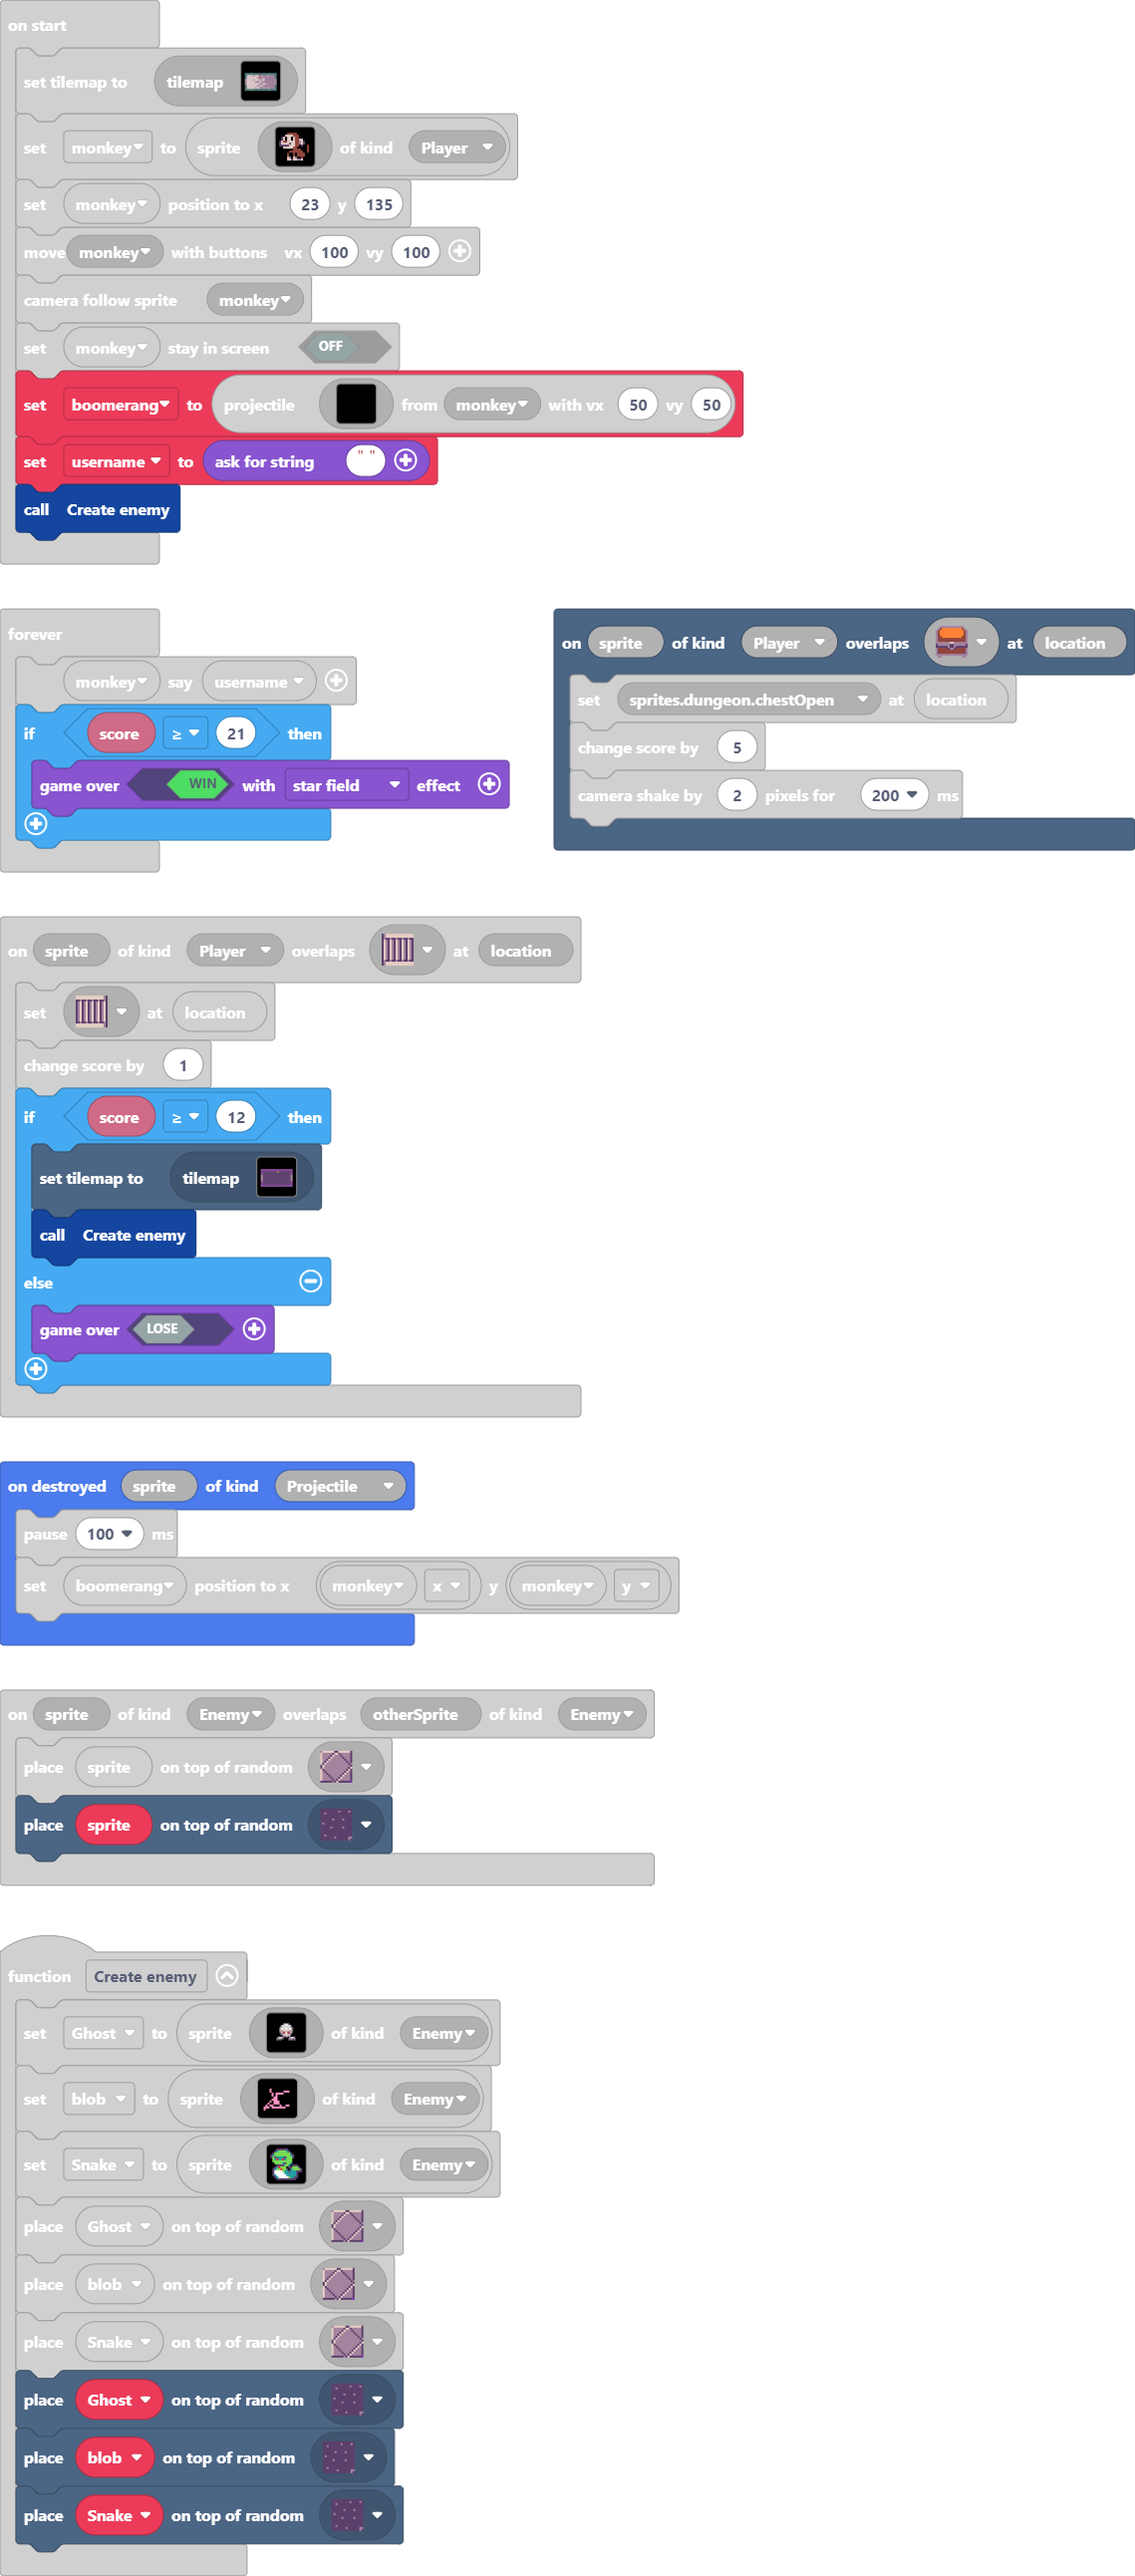
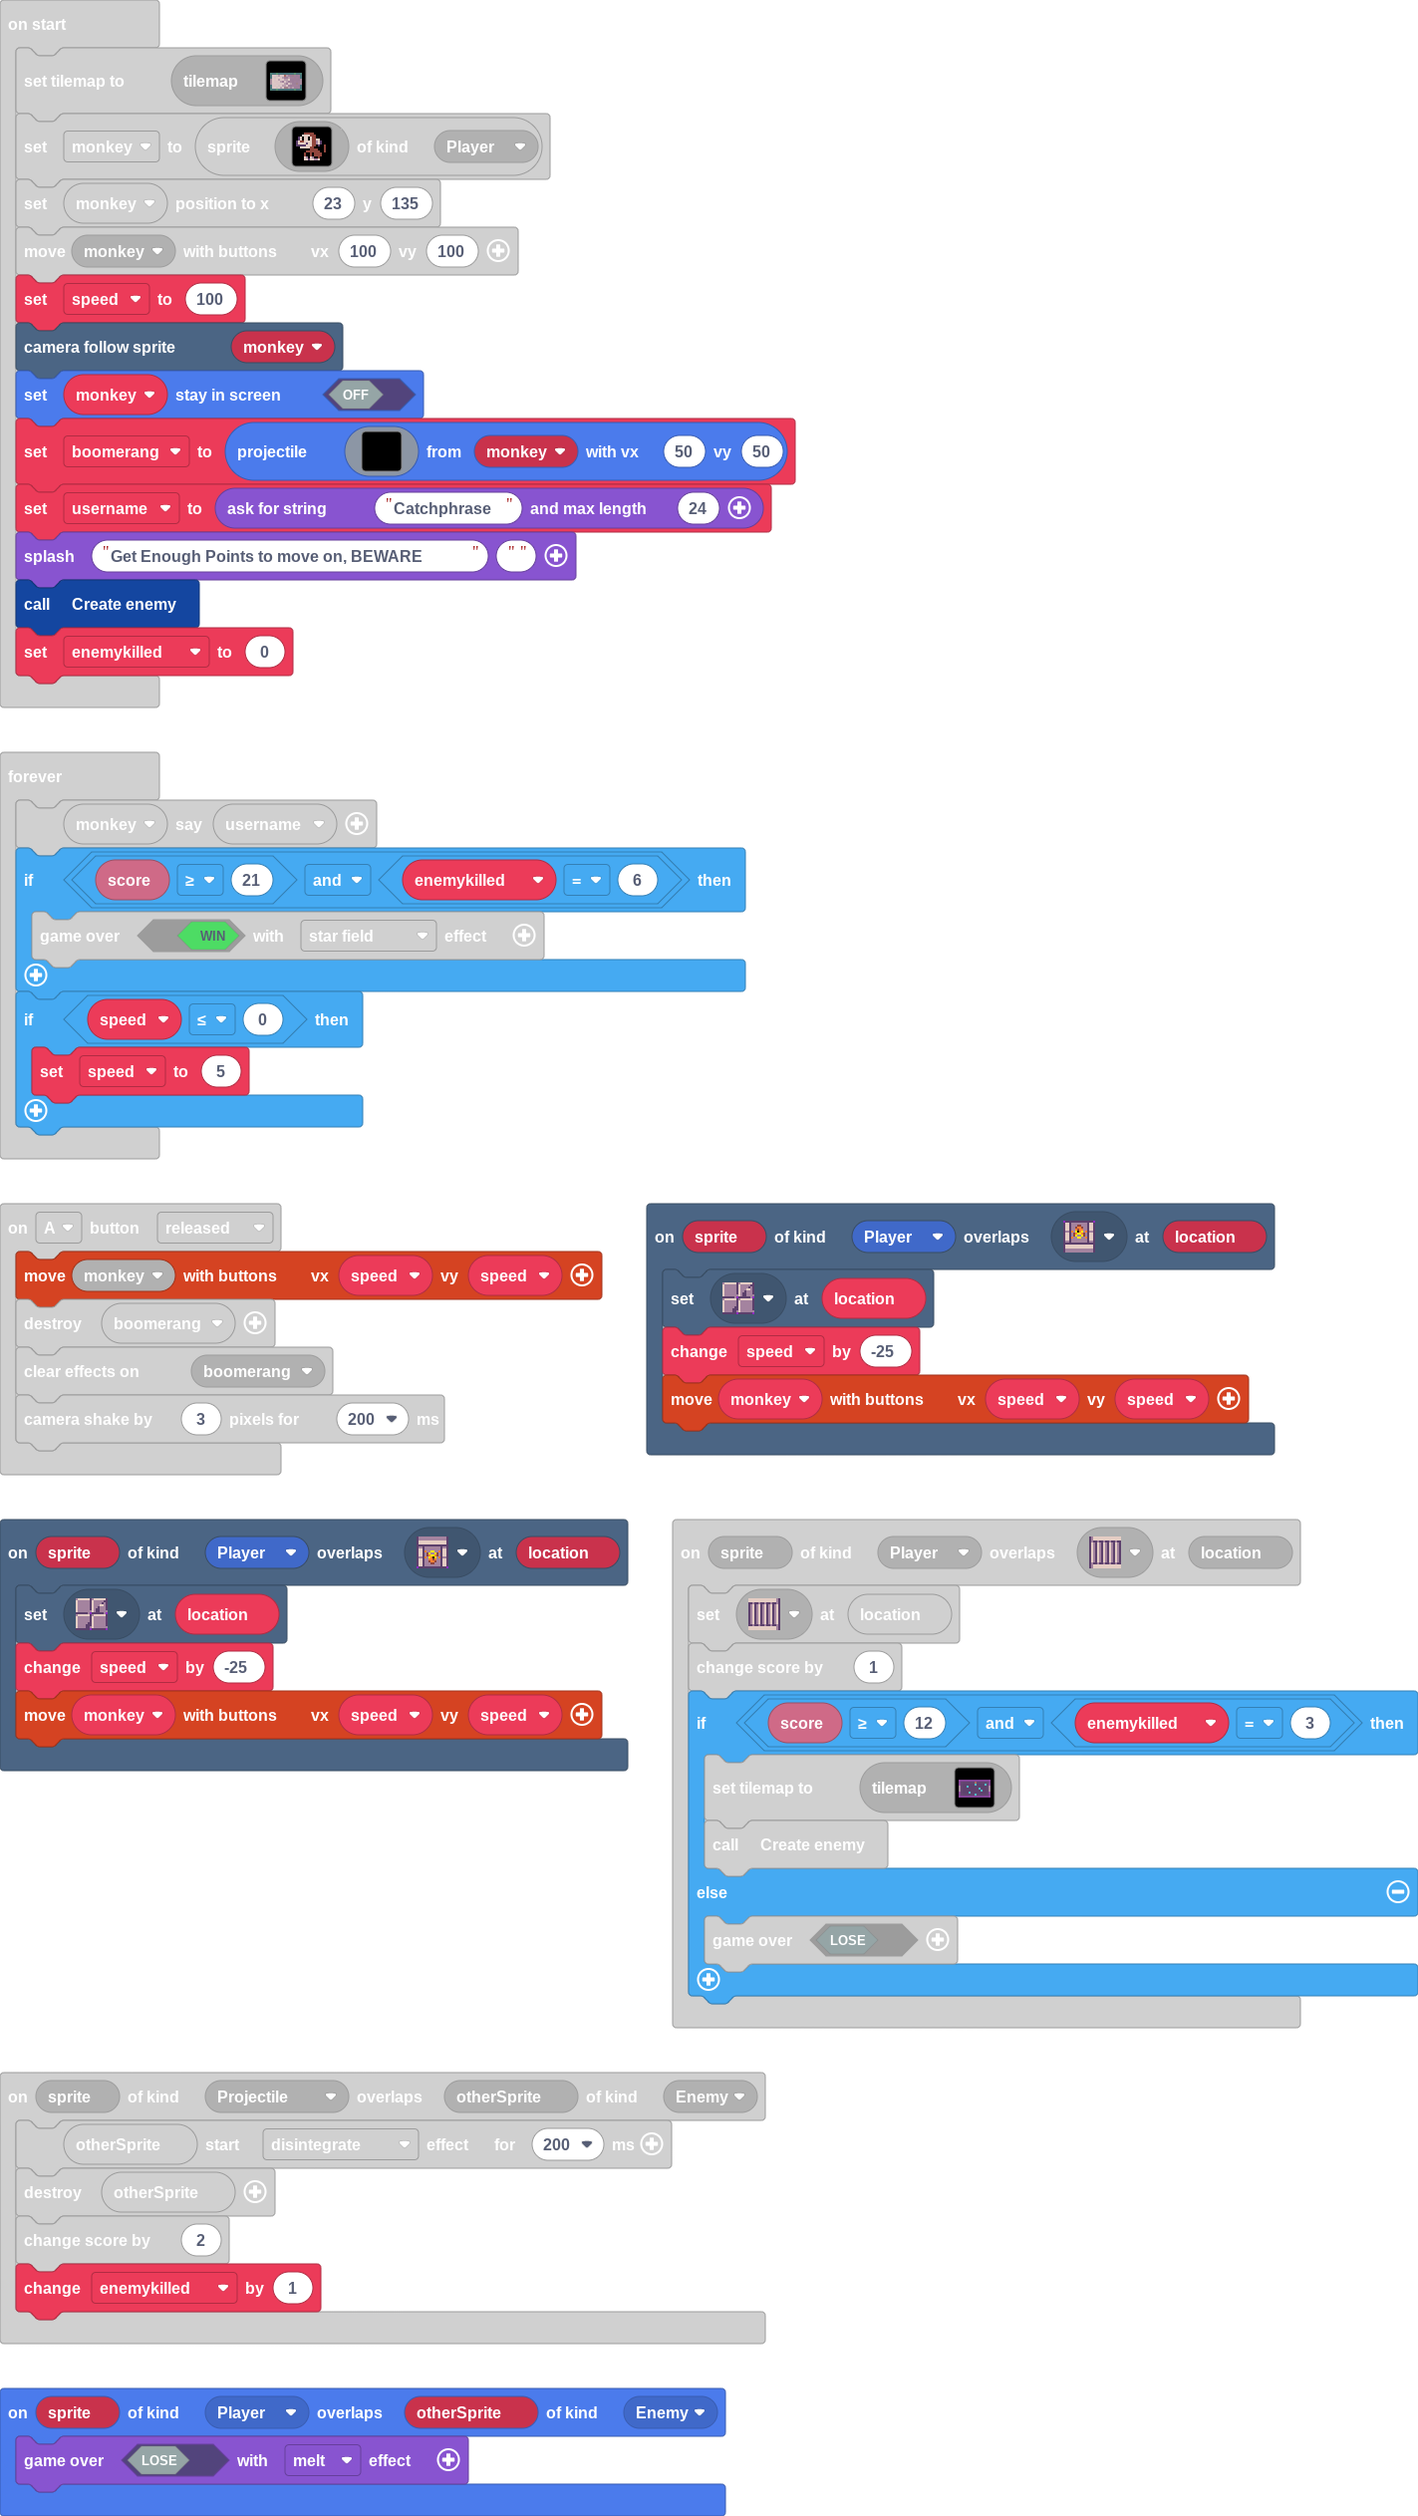
Update pxt.json, main.blocks, main.ts, tilemap.g.jres, tilemap.g.ts

diff --git a/tilemap.g.ts b/tilemap.g.ts
@@ -24,25 +24,6 @@ namespace myTiles {
 . . . . . . . . . . . . . . . . 
 . . . . . . . . . . . . . . . . 
 `, [myTiles.transparency16,sprites.dungeon.darkGroundNorthWest0,sprites.dungeon.darkGroundNorthEast0,sprites.dungeon.darkGroundSouthWest0,sprites.dungeon.darkGroundSouthEast0,sprites.dungeon.darkGroundWest,sprites.dungeon.darkGroundEast,sprites.dungeon.darkGroundNorth,sprites.dungeon.darkGroundSouth,sprites.dungeon.darkGroundCenter,sprites.dungeon.purpleOuterNorthEast,sprites.dungeon.purpleOuterSouthEast,sprites.dungeon.purpleOuterNorthWest,sprites.dungeon.purpleOuterWest0,sprites.dungeon.purpleOuterWest1,sprites.dungeon.purpleOuterEast0,sprites.dungeon.purpleOuterEast1,sprites.dungeon.purpleOuterSouthWest,sprites.dungeon.purpleOuterSouth1,sprites.dungeon.purpleOuterSouth0,sprites.dungeon.purpleOuterNorth1,sprites.dungeon.purpleOuterNorth0,sprites.dungeon.stairWest,sprites.dungeon.stairEast,sprites.dungeon.darkGroundNorthWest1], TileScale.Sixteen);
-            case "level1":
[1 lines of base64/hex data omitted]
-. . . . . . . . . . . . . . . . 
-. . . . . . . . . . . . . . . . 
-. . . . . . . . . . . . . . . . 
-. . . . . . . . . . . . . . . . 
-2 2 2 2 2 2 2 2 2 2 2 2 2 2 2 2 
-2 . . . . . . . . . . . . . . 2 
-2 . . . . . . . . . . . . . . 2 
-2 . . . . . . . . . . . . . . . 
-2 . . . . . . . . . . . . . . . 
-2 . . . . . . . . . . . . . . . 
-2 . . . . . . . . . . . . . . 2 
-2 . . . . . . . . . . . . . . 2 
-2 2 2 2 2 2 2 2 2 2 2 2 2 2 2 2 
-. . . . . . . . . . . . . . . . 
-. . . . . . . . . . . . . . . . 
-. . . . . . . . . . . . . . . . 
-`, [myTiles.transparency16,sprites.dungeon.greenOuterSouthEast,sprites.dungeon.greenOuterSouthWest,sprites.dungeon.greenOuterSouth0,sprites.dungeon.greenOuterSouth1,sprites.dungeon.greenOuterNorthEast,sprites.dungeon.greenOuterNorthWest,sprites.dungeon.greenOuterNorth0,sprites.dungeon.greenOuterNorth1,sprites.dungeon.greenOuterWest1,sprites.dungeon.greenOuterWest0,sprites.dungeon.greenOuterEast0,sprites.dungeon.greenOuterEast1,sprites.dungeon.greenOuterSouth2,sprites.dungeon.greenOuterNorth2,sprites.dungeon.floorLight0,sprites.dungeon.floorDark0,sprites.dungeon.floorMixed,sprites.dungeon.floorDark4,sprites.dungeon.floorLightMoss,sprites.dungeon.floorLight4,sprites.dungeon.floorLight1,sprites.dungeon.floorDark5,sprites.dungeon.floorDark1,sprites.dungeon.floorDarkDiamond,sprites.dungeon.floorLight2,sprites.dungeon.stairWest,sprites.dungeon.stairEast,sprites.dungeon.chestClosed], TileScale.Sixteen);
             case "level3":
             case "level3":return tiles.createTilemap(hex`1000100000000000000000000000000000000000000000000000000000000000000000000000000000000000000000000000000000000000000000000000000000000000000000000000000000000000000000000000000000000000000000000000000000000000000000000000000000000000000000000000000000000000000000000000000000000000000000000000000000000000000000000000000000000000000000000000000000000000000000000000000000000000000000000000000000000000000000000000000000000000000000000000000000000000000000000000000000000000000000000000000000000000000000000000000000000000`, img`
 . . . . . . . . . . . . . . . . 
@@ -62,8 +43,27 @@ namespace myTiles {
 . . . . . . . . . . . . . . . . 
 . . . . . . . . . . . . . . . . 
 `, [myTiles.transparency16], TileScale.Sixteen);
+            case "level1":
[1 lines of base64/hex data omitted]
+. . . . . . . . . . . . . . . . 
+. . . . . . . . . . . . . . . . 
+. . . . . . . . . . . . . . . . 
+. . . . . . . . . . . . . . . . 
+2 2 2 2 2 2 2 2 2 2 2 2 2 2 2 2 
+2 . . . . . . . . . . . . . . 2 
+2 . . . . . . . . . . . . . . 2 
+2 . . . . . . . . . . . . . . . 
+2 . . . . . . . . . . . . . . . 
+2 . . . . . . . . . . . . . . . 
+2 . . . . . . . . . . . . . . 2 
+2 . . . . . . . . . . . . . . 2 
+2 2 2 2 2 2 2 2 2 2 2 2 2 2 2 2 
+. . . . . . . . . . . . . . . . 
+. . . . . . . . . . . . . . . . 
+. . . . . . . . . . . . . . . . 
+`, [myTiles.transparency16,sprites.dungeon.greenOuterSouthEast,sprites.dungeon.greenOuterSouthWest,sprites.dungeon.greenOuterSouth0,sprites.dungeon.greenOuterSouth1,sprites.dungeon.greenOuterNorthEast,sprites.dungeon.greenOuterNorthWest,sprites.dungeon.greenOuterNorth0,sprites.dungeon.greenOuterNorth1,sprites.dungeon.greenOuterWest1,sprites.dungeon.greenOuterWest0,sprites.dungeon.greenOuterEast0,sprites.dungeon.greenOuterEast1,sprites.dungeon.greenOuterSouth2,sprites.dungeon.greenOuterNorth2,sprites.dungeon.floorLight0,sprites.dungeon.floorDark0,sprites.dungeon.floorMixed,sprites.dungeon.floorDark4,sprites.dungeon.floorLightMoss,sprites.dungeon.floorLight4,sprites.dungeon.floorLight1,sprites.dungeon.floorDark5,sprites.dungeon.floorDark1,sprites.dungeon.floorDarkDiamond,sprites.dungeon.floorLight2,sprites.dungeon.stairWest,sprites.dungeon.stairEast,sprites.dungeon.chestClosed,sprites.dungeon.doorLockedSouth,sprites.dungeon.doorLockedNorth], TileScale.Sixteen);
             case "level4":
[2 lines of base64/hex data omitted]
 . . . . . . . . . . . . . . . . 
 . . . . . . . . . . . . . . . . 
 . . . . . . . . . . . . . . . . 
@@ -80,7 +80,7 @@ namespace myTiles {
 . . . . . . . . . . . . . . . . 
 . . . . . . . . . . . . . . . . 
 . . . . . . . . . . . . . . . . 
-`, [myTiles.transparency16,sprites.dungeon.purpleOuterSouthEast,sprites.dungeon.purpleOuterNorthWest,sprites.dungeon.purpleOuterNorthEast,sprites.dungeon.purpleOuterNorth1,sprites.dungeon.purpleOuterNorth0,sprites.dungeon.purpleOuterSouth1,sprites.dungeon.purpleOuterSouth0,sprites.dungeon.purpleOuterSouthWest,sprites.dungeon.stairEast,sprites.dungeon.stairWest,sprites.dungeon.purpleOuterWest0,sprites.dungeon.purpleOuterEast0,sprites.dungeon.darkGroundNorthWest0,sprites.dungeon.darkGroundNorthEast0,sprites.dungeon.darkGroundSouthEast0,sprites.dungeon.darkGroundSouthWest0,sprites.dungeon.darkGroundNorth,sprites.dungeon.darkGroundWest,sprites.dungeon.darkGroundEast,sprites.dungeon.darkGroundSouth,sprites.dungeon.darkGroundCenter,sprites.dungeon.chestClosed,sprites.dungeon.darkGroundNorthWest1], TileScale.Sixteen);
+`, [myTiles.transparency16,sprites.dungeon.purpleOuterSouthEast,sprites.dungeon.purpleOuterNorthWest,sprites.dungeon.purpleOuterNorthEast,sprites.dungeon.purpleOuterNorth1,sprites.dungeon.purpleOuterNorth0,sprites.dungeon.purpleOuterSouth1,sprites.dungeon.purpleOuterSouth0,sprites.dungeon.purpleOuterSouthWest,sprites.dungeon.stairEast,sprites.dungeon.stairWest,sprites.dungeon.purpleOuterWest0,sprites.dungeon.purpleOuterEast0,sprites.dungeon.darkGroundNorthWest0,sprites.dungeon.darkGroundNorthEast0,sprites.dungeon.darkGroundSouthEast0,sprites.dungeon.darkGroundSouthWest0,sprites.dungeon.darkGroundNorth,sprites.dungeon.darkGroundWest,sprites.dungeon.darkGroundEast,sprites.dungeon.darkGroundSouth,sprites.dungeon.darkGroundCenter,sprites.dungeon.chestClosed,sprites.dungeon.darkGroundNorthWest1,sprites.dungeon.collectibleInsignia], TileScale.Sixteen);
         }
         return null;
     })

diff --git a/main.ts b/main.ts
@@ -1,3 +1,8 @@
+scene.onOverlapTile(SpriteKind.Player, sprites.dungeon.doorLockedNorth, function (sprite, location) {
+    tiles.setTileAt(location, sprites.dungeon.floorDark1)
+    speed += -25
+    controller.moveSprite(monkey, speed, speed)
+})
 controller.A.onEvent(ControllerButtonEvent.Pressed, function () {
     boomerang = sprites.createProjectileFromSprite(img`
         . . . . . . . . . . . . . . . . 
@@ -298,6 +303,11 @@ scene.onOverlapTile(SpriteKind.Player, sprites.dungeon.chestClosed, function (sp
     info.changeScoreBy(5)
     scene.cameraShake(2, 200)
 })
+scene.onOverlapTile(SpriteKind.Player, sprites.dungeon.doorLockedSouth, function (sprite, location) {
+    tiles.setTileAt(location, sprites.dungeon.floorDark1)
+    speed += -25
+    controller.moveSprite(monkey, speed, speed)
+})
 controller.right.onEvent(ControllerButtonEvent.Pressed, function () {
     animation.runImageAnimation(
     monkey,
@@ -411,7 +421,7 @@ controller.right.onEvent(ControllerButtonEvent.Pressed, function () {
 scene.onOverlapTile(SpriteKind.Player, sprites.dungeon.stairEast, function (sprite, location) {
     tiles.setTileAt(location, sprites.dungeon.stairWest)
     info.changeScoreBy(1)
-    if (info.score() >= 12) {
+    if (info.score() >= 12 && enemykilled == 3) {
         tiles.setCurrentTilemap(tilemap`level4`)
         Create_enemy()
     } else {
@@ -419,7 +429,7 @@ scene.onOverlapTile(SpriteKind.Player, sprites.dungeon.stairEast, function (spri
     }
 })
 controller.A.onEvent(ControllerButtonEvent.Released, function () {
-    controller.moveSprite(monkey, 75, 75)
+    controller.moveSprite(monkey, speed, speed)
     boomerang.destroy()
     effects.clearParticles(boomerang)
     scene.cameraShake(3, 200)
@@ -435,11 +445,17 @@ sprites.onOverlap(SpriteKind.Projectile, SpriteKind.Enemy, function (sprite, oth
     otherSprite.startEffect(effects.disintegrate, 200)
     otherSprite.destroy()
     info.changeScoreBy(2)
+    enemykilled += 1
+})
+sprites.onOverlap(SpriteKind.Player, SpriteKind.Enemy, function (sprite, otherSprite) {
+    game.over(false, effects.melt)
 })
 let Snake: Sprite = null
 let blob: Sprite = null
 let Ghost: Sprite = null
+let enemykilled = 0
 let boomerang: Sprite = null
+let speed = 0
 let monkey: Sprite = null
 tiles.setCurrentTilemap(tilemap`level1`)
 monkey = sprites.create(img`
@@ -462,6 +478,7 @@ monkey = sprites.create(img`
     `, SpriteKind.Player)
 monkey.setPosition(23, 135)
 controller.moveSprite(monkey, 100, 100)
+speed = 100
 scene.cameraFollowSprite(monkey)
 monkey.setStayInScreen(false)
 boomerang = sprites.createProjectileFromSprite(img`
@@ -482,11 +499,16 @@ boomerang = sprites.createProjectileFromSprite(img`
     . . . . . . . . . . . . . . . . 
     . . . . . . . . . . . . . . . . 
     `, monkey, 50, 50)
-let username = game.askForString("")
+let username = game.askForString("Catchphrase", 24)
+game.splash("Get Enough Points to move on, BEWARE")
 Create_enemy()
+enemykilled = 0
 forever(function () {
     monkey.sayText(username)
-    if (info.score() >= 21) {
+    if (info.score() >= 21 && enemykilled == 6) {
         game.over(true, effects.starField)
+    }
+    if (speed <= 0) {
+        speed = 5
     }
 })
